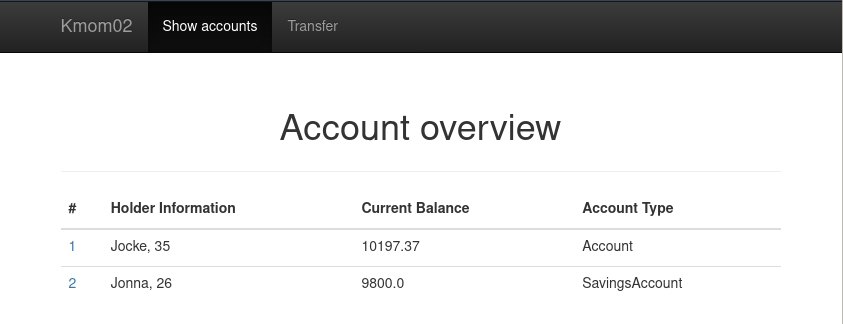
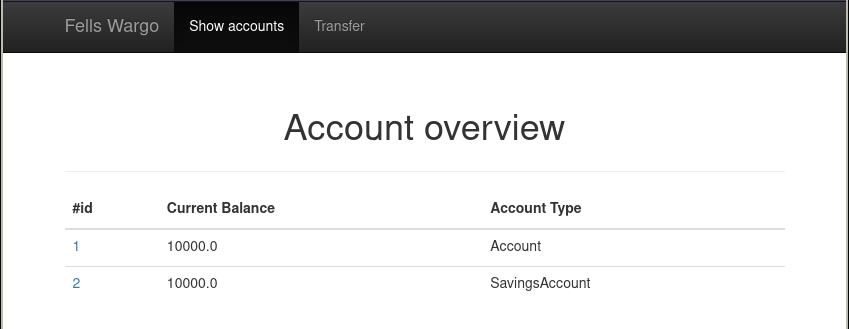
oopython kmom02, removed persons

diff --git a/content/uppgift/1235_bank_med_flask.md b/content/uppgift/1235_bank_med_flask.md
@@ -31,7 +31,7 @@ Du jobbar vid sidan om dina studier och din kund vill att du gör klart en webbs
 
 [YOUTUBE src=PCGwx_wpzME width=630 caption="Så här kan det se ut när det är färdigt."]
 
-Du ska implementera klasserna för person klassen, de två kontotyperna och handlern som app.py jobbar mot.
+Du ska implementera klasserna för de två kontotyperna och handlern som app.py jobbar mot.
 
 [FIGURE src=/image/oopython/kmom02/bank_uml.png caption="Klassdiagram för uppgiften."]
 
@@ -39,7 +39,7 @@ Attributen och metoderna som är **bold**-markerad används av den färdiga kode
 
 [YOUTUBE src=GBmyT_TntXA width=630 caption="Andreas förklarar klassdiagrammet och koden som ska skrivas."]
 
-Appen följer överlag samma struktur som i övningen, den enda skillnaden är att vi skall använda oss av en json-fil för att spara den dynamiska data som applikationen inte kommer ihåg mellan request:en. Ett tips, när du börjar utveckla en ny metod som anropas från den färdiga koden, använd dig av `print()` i metoden du skapar och kolla klassdiagrammet för att ta reda på vad som skickas som argument till din metod.
+Appen följer överlag samma struktur som i övningen, vi använder oss av en json-fil för att spara den dynamiska data som applikationen inte kommer ihåg mellan request:en. Ett tips, när du börjar utveckla en ny metod som anropas från den färdiga koden, använd dig av `print()` i metoden du skapar och kolla klassdiagrammet för att ta reda på vad som skickas som argument till din metod.
 
 [YOUTUBE src=rqfqn29glIo width=630 caption="Hur ska man börja med bank uppgiften?"]
 
@@ -61,21 +61,23 @@ cd me/kmom02/bank
 
 1. Bekanta dig med koden, kolla igenom app.py för att se vilka routes som finns och vilka html filer som används till vad. Leta efter alla anrop som görs till klasserna du ska skapa så att du får en bild av vilka metod som behövs och vad de används till.
 
-1. Skapa filen `static/data/accounts.json` där du lägger in den data du behöver för att återskapa alla klasser. Filen skall automatiskt läsas in när en ny instans av `AccountManager` skapas. Uppdateras något (t.ex. ens kontobalans) skall ändringarna också skrivas till filen.  
-Strukturen på filen väljer du själv, kodbasen innehåller ett [exempel](https://github.com/dbwebb-se/oopython/tree/master/example/flask/bank/static/data/accounts-example.json) du kan utgå ifrån.
+1. Skapa filen `static/data/accounts.json` där du lägger in den data du behöver för att återskapa alla klasser. Filen skall automatiskt läsas in när en ny instans av `AccountManager` skapas.  
+Det finns ett exempel i samma katalog du kan utgå ifrån. **Glöm inte** också att ge filen skriv och läsrättigheter:
 
-1. Implementera klasserna som behövs i filerna `handler.py`, `persons.py` och `accounts.py`. Totalt skall det minst finnas tre konton av varje typ.
+```bash
+chmod 777 static/data/accounts.json
+```
 
+4. Implementera klasserna som behövs i filerna `handler.py` och `accounts.py`. Totalt skall det minst finnas tre konton av varje typ.
+
+1. Ett konto skall få sitt *id* tilldelad från klass variabeln `Account.account_number`, den skall ej skickas med i konstruktorn.  
+`Account.transaction_fee` säger procenten som skall dras av det överförda beloppet. Överför man exempelvis 100kr med en avgift på 1%, skall 100kr dras från kontot men mottagaren ska endast få 99kr insatta.
+
+1. `SavingsAccount` ärver `Account`. Den skall ha en extra funktionalitet som räknar ut kontots dagliga ränta. 
 
 1. Handlern ska äga alla tillgängliga konton, kunna överföra pengar mellan två konton samt, räkna ut den ränta man kommer till att få mellan dagens datum till den som skickas in från datepickern.  
 Det ska finnas metoder för att hämta alla konton, hämta ett specifikt konto, lägga till ett nytt konto samt hantera json-filen.
 
-1. Ett konto skall få sitt `_id` tilldelad från klass variabeln `Account.account_number`, den skall ej skickas med i konstruktorn.  
-`interest_rate` representerar hur många `%` balansen ökar med under ett år.  
-`transaction_fee` säger procenten som skall dras av det överförda beloppet. Överför man exempelvis 100kr med en avgift på 1%, skall 100kr dras från kontot men mottagaren ska endast få 99kr insatta.
-
-
-1. `SavingsAccount` har en extra överföringsavgift och högre dag-för-dag ränta beroende på hur gammal ägaren är. Denna skall motsvara `0.1%` av hens ålder.
 
 1. Du ska inte behöva ändra i några av de andra filerna, förutom kanske style.css, men om du känner att du vill/behöver det skriv varför i din redovisningstext.
 
